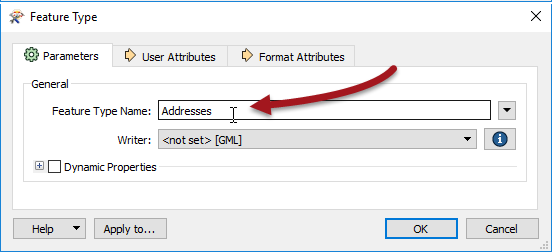
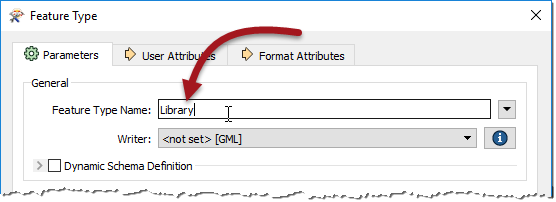
2018: Chapter 2: Section 2.3

diff --git a/DesktopBasic2Transformation/2.03.SchemaEditing.md b/DesktopBasic2Transformation/2.03.SchemaEditing.md
@@ -1,26 +1,26 @@
 # Schema Editing
 
-***Schema Editing*** is the process of altering the Writer schema to customize the structure of the output data. One good example is renaming an attribute field. 
+***Schema Editing*** is the process of altering the writer schema to customize the structure of the output data. One good example is renaming an attribute field. 
 
 After editing, the source schema still represents *"what we have"*, but the destination schema now truly does represent *"what we want"*.
 
 
 ## Editable Components
-There are a number of edits that can be performed, including, but not limited to the following.
+There are a number of edits that can be performed, including, but not limited to the following:
 
 ### Attribute Renaming
 Attributes on the destination schema can be renamed, such as renaming POSTALCODE to PSTLCODE.
 
-To rename an attribute open the Feature Type Properties dialog and click the User Attributes tab. Click the attribute to be renamed and enter the new name.
+To rename an attribute open the Feature Type dialog and click the User Attributes tab. Click the attribute to be renamed and enter the new name.
 
 ![](./Images/Img2.008.WriterFeatureTypeEditAttr.png)
 
 ---
 
 ### Attribute Type Changes
-Any attribute on the writer schema can have a change of type; for example, changing STATUS from a character field to a boolean field.
+Any attribute on the writer schema can have a change of type; for example, changing from a character field to a Boolean field.
 
-To change an attribute type open the Feature Type Properties dialog and click the User Attributes tab. Use the Data Type field to change the type of an attribute.
+To change an attribute type open the User Attributes tab and set the Type field to the new type:
 
 ![](./Images/Img2.009.WriterFeatureTypeEditAttrType.png)
 
@@ -39,7 +39,7 @@ To change an attribute type open the Feature Type Properties dialog and click th
 <tr>
 <td style="border: 1px solid darkorange">
 <span style="font-family:serif; font-style:italic; font-size:larger">
-The Data Type column for an attribute shows only values that match the permitted types for that data format. For example, an Oracle schema permits attribute types of varchar or clob. MapInfo does not support these data types so they would never appear in a MapInfo schema.The above screenshot shows data types for the GML format.
+The Type column for an attribute shows only values that match the permitted types for that data format. For example, an Oracle schema permits attribute types of varchar or clob. MapInfo does not support these data types so they would never appear in a MapInfo schema.The above screenshot shows data types for the GML format.
 </span>
 </td>
 </tr>
@@ -48,7 +48,7 @@ The Data Type column for an attribute shows only values that match the permitted
 ---
 
 ### Feature Type Renaming
-To rename a destination feature type (for example, rename PostalAddress to Addresses) open the Feature Type Properties dialog. Click the Parameters tab. Click in the Feature Type Name field and edit the name as required.
+To rename a writer feature type open the Parameters tab, click in the Feature Type Name field (the label may vary according to the format type) and edit the name as required:
 
 ![](./Images/Img2.010.WriterFeatureTypeEditName.png)
 
@@ -57,13 +57,15 @@ You can also rename a feature type by clicking on it in the Workbench canvas and
 ---
 
 ### Geometry Type Changes
-To change the permitted geometry for a feature type, (for example, change the permitted geometries from lines to points) open the Feature Type Properties dialog. Click the General tab. Choose from the list of permitted geometries.
+To change the permitted geometry for a feature type, (for example, change the permitted geometries from lines to points) open the Parameters tab and change the permitted geometry type:
 
-This field is only available where the format requires a decision on geometry type. Where formats allow any mix of geometry type in a single feature type, this setting is greyed out.
+![](./Images/Img2.011.WriterFeatureTypeGeometry.png)
+
+This field is only available where the format requires a strict decision on geometry type. Where formats allow any mix of geometry in a single feature type, this setting is not shown.
 
 ---
 
-Once the user has made all the required changes to the Writer schema, the workspace reflects *"what we want"* - but it doesn't yet specify how the Reader and Writer schemas should be connected together. This is the next task and it is called ***Schema Mapping***.
+Once the user has made all the required changes to the writer schema, the workspace reflects *"what we want"* - but it doesn't yet specify how the reader and writer schemas should be connected together. This is the next task and it is called ***Schema Mapping***.
 
 ---
 
@@ -80,9 +82,9 @@ Once the user has made all the required changes to the Writer schema, the worksp
 <tr>
 <td style="border: 1px solid darkorange">
 <span style="font-family:serif; font-style:italic; font-size:larger">
-You might be wondering "what would happen if I edited the <strong>Reader</strong> schema, instead of the Writer"?
-<br><br>Well, by default, you can't! The schema fields for a Reader are greyed out to stop you, since they would no longer match the Reader dataset.
-<br><br><img src="./Images/Img2.011.GrayedOutFeatureAttrs.png">
+You might be wondering "what would happen if I edited the <strong>reader</strong> schema, instead of the writer"?
+<br><br>Well, by default you can't! The schema fields for a reader are greyed out to prevent this, since changes would put the schema definition out of sync with the source dataset:
+<br><br><img src="./Images/Img2.012.GrayedOutFeatureAttrs.png">
 <br><br>There are a few, rare, use cases - but they're outside the scope of this training course!
 </span>
 </td>
